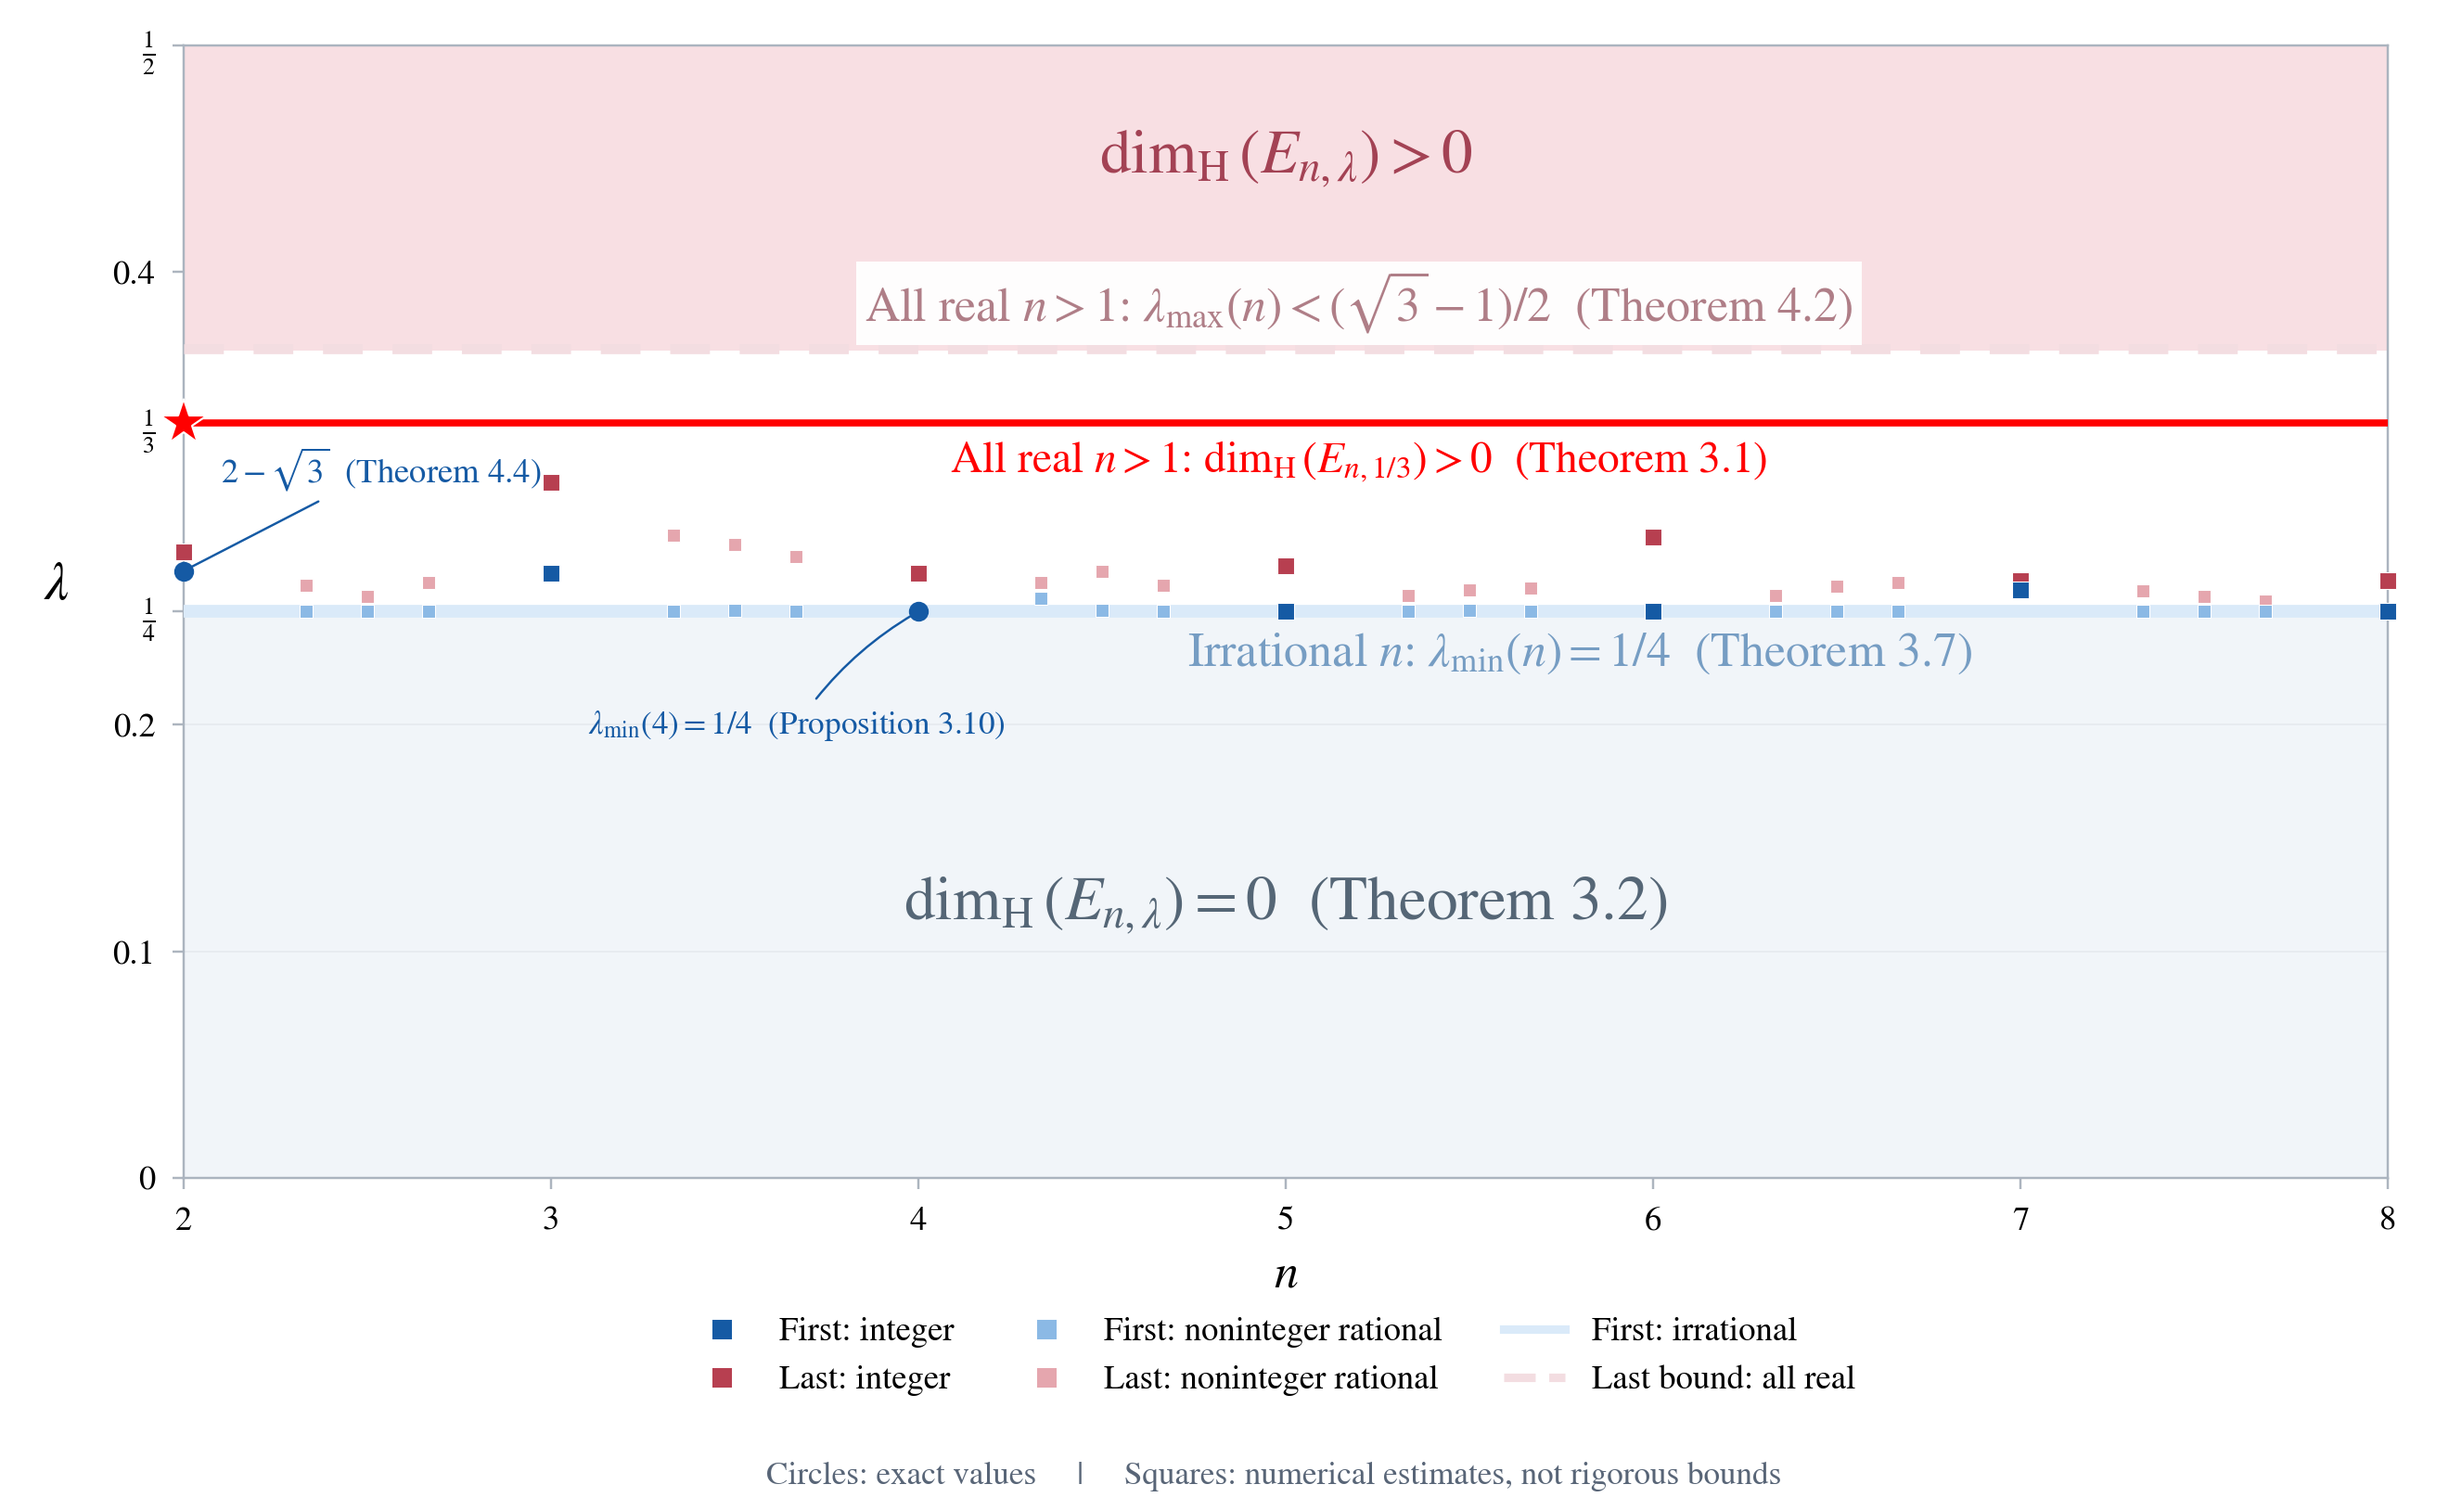
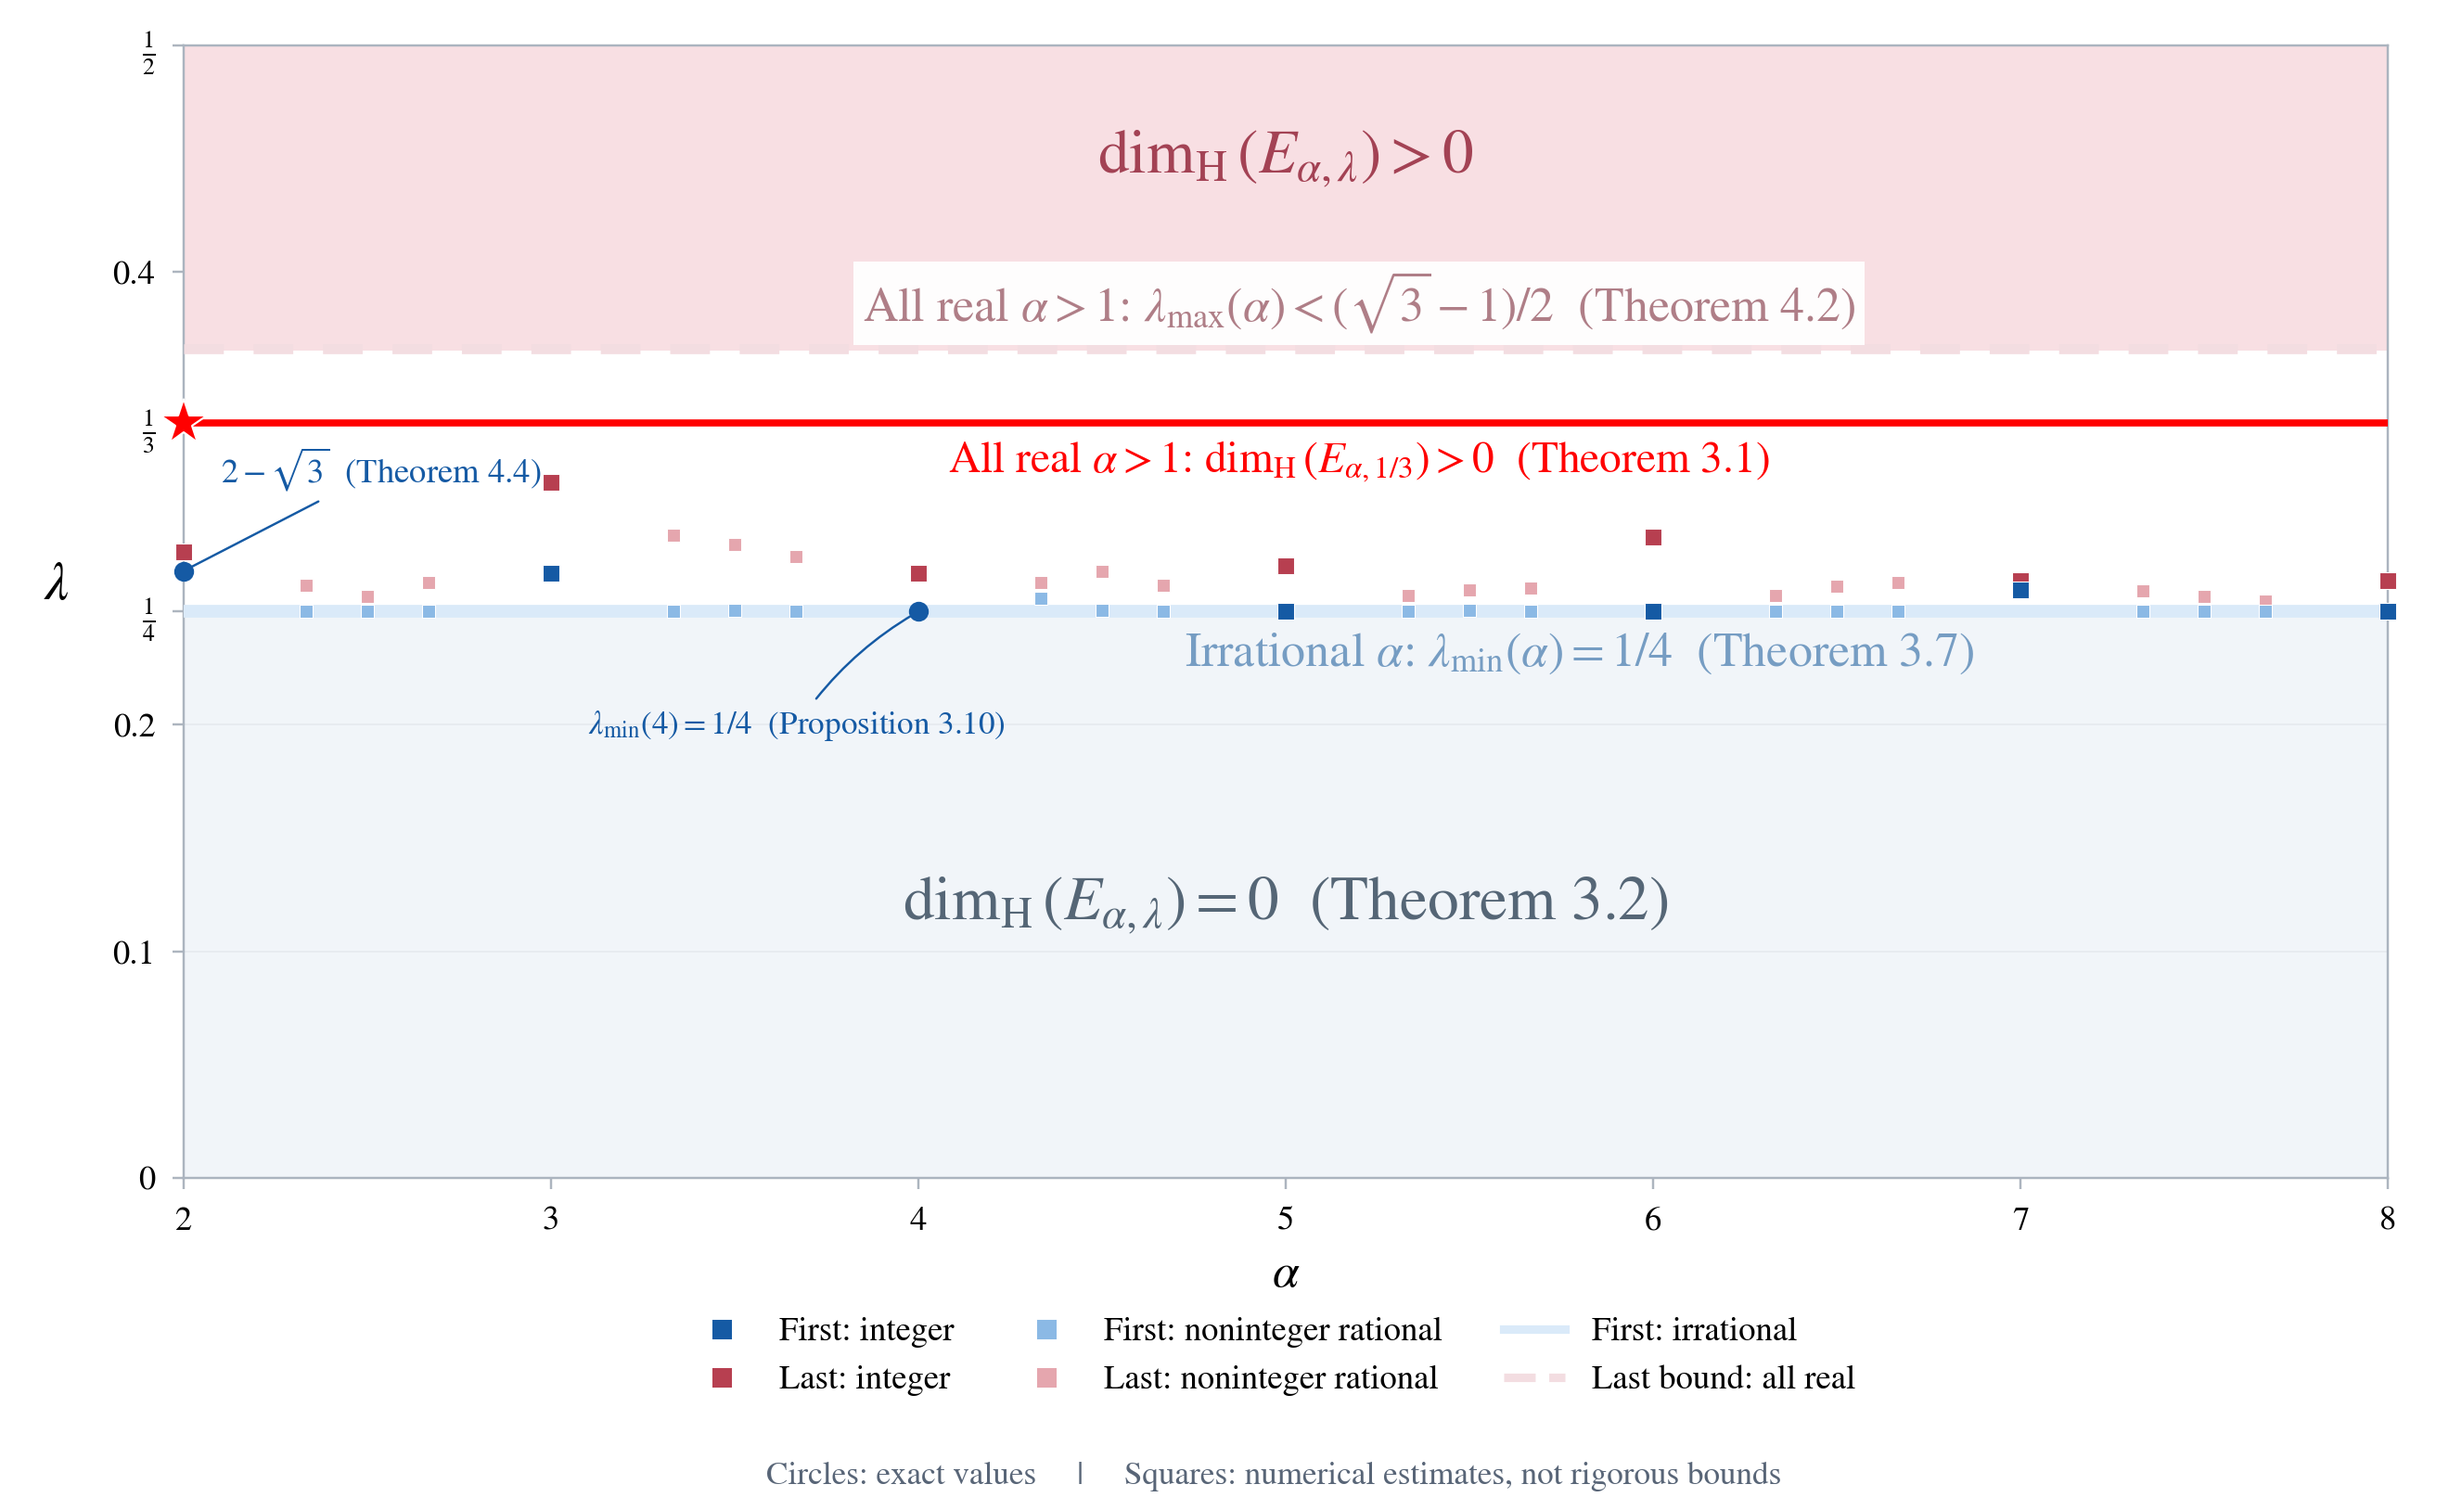
Use alpha in paper figure labels and document exponent notation

diff --git a/figures/generate_phase_diagram_zh.py b/figures/generate_phase_diagram_zh.py
@@ -59,16 +59,16 @@ for frac in fractions:
                 zorder=11, clip_on=False)
 
 
-ax.text(5, .12, r'$\dim_{\mathrm{H}}(E_{n,\lambda})=0$  (定理 3.2)',
+ax.text(5, .12, r'$\dim_{\mathrm{H}}(E_{\alpha,\lambda})=0$  (定理 3.2)',
         ha='center', va='center', fontsize=22, color='#556676')
-ax.text(5, .45, r'$\dim_{\mathrm{H}}(E_{n,\lambda})>0$',
+ax.text(5, .45, r'$\dim_{\mathrm{H}}(E_{\alpha,\lambda})>0$',
         ha='center', va='center', fontsize=22, color='#A34254', zorder=12)
 ax.text(5.2, .378,
-        r'所有实数 $n>1$: $\lambda_{\max}(n)<(\sqrt{3}-1)/2$  (定理 4.2)',
+        r'所有实数 $\alpha>1$: $\lambda_{\max}(\alpha)<(\sqrt{3}-1)/2$  (定理 4.2)',
         ha='center', fontsize=17, color='#AF7E87',
         bbox=dict(facecolor='white', edgecolor='none', alpha=.94, pad=3), zorder=10)
 ax.text(5.8, .226,
-        r'无理指数 $n$: $\lambda_{\min}(n)=1/4$  (定理 3.7)',
+        r'无理指数 $\alpha$: $\lambda_{\min}(\alpha)=1/4$  (定理 3.7)',
         ha='center', color='#769DC3', fontsize=17, zorder=10)
 ax.annotate(r'$2-\sqrt{3}$  (定理 4.4)',
             xy=(2,2-math.sqrt(3)), xytext=(2.10,.307),
@@ -79,7 +79,7 @@ ax.annotate(r'$\lambda_{\min}(4)=1/4$  (命题 3.10)',
             color=blue[0], fontsize=11.5,
             arrowprops=dict(arrowstyle='-',color=blue[0],lw=.8,
                             connectionstyle='arc3,rad=-.12'), zorder=10)
-ax.text(5.2, .326, r'所有实数 $n>1$: $\dim_{\mathrm{H}}(E_{n,1/3})>0$  (定理 3.1)',
+ax.text(5.2, .326, r'所有实数 $\alpha>1$: $\dim_{\mathrm{H}}(E_{\alpha,1/3})>0$  (定理 3.1)',
         ha='center', va='top', fontsize=15.5, color='#FF0000',
         bbox=dict(facecolor='white',edgecolor='none',alpha=.94,pad=2), zorder=12)
 ax.plot(2, 1/3, marker='*', linestyle='none', markersize=17,
@@ -88,7 +88,7 @@ ax.plot(2, 1/3, marker='*', linestyle='none', markersize=17,
 ax.set_xlim(2,8)
 ax.set_ylim(0,.5)
 ax.set_xticks(range(2,9))
-ax.set_xlabel(r'$n$', fontsize=17, labelpad=6)
+ax.set_xlabel(r'$\alpha$', fontsize=17, labelpad=6)
 ax.set_ylabel(r'$\lambda$', fontsize=19, rotation=0, labelpad=20)
 ax.set_yticks([0,.1,.2,.25,1/3,.4,.5])
 ax.set_yticklabels(['0','0.1','0.2',r'$\frac{1}{4}$',r'$\frac{1}{3}$','0.4',r'$\frac{1}{2}$'])

diff --git a/figures/generate_phase_diagram.py b/figures/generate_phase_diagram.py
@@ -59,16 +59,16 @@ for frac in fractions:
                 zorder=11, clip_on=False)
 
 
-ax.text(5, .12, r'$\dim_{\mathrm{H}}(E_{n,\lambda})=0$  (Theorem 3.2)',
+ax.text(5, .12, r'$\dim_{\mathrm{H}}(E_{\alpha,\lambda})=0$  (Theorem 3.2)',
         ha='center', va='center', fontsize=22, color='#556676')
-ax.text(5, .45, r'$\dim_{\mathrm{H}}(E_{n,\lambda})>0$',
+ax.text(5, .45, r'$\dim_{\mathrm{H}}(E_{\alpha,\lambda})>0$',
         ha='center', va='center', fontsize=22, color='#A34254', zorder=12)
 ax.text(5.2, .378,
-        r'All real $n>1$: $\lambda_{\max}(n)<(\sqrt{3}-1)/2$  (Theorem 4.2)',
+        r'All real $\alpha>1$: $\lambda_{\max}(\alpha)<(\sqrt{3}-1)/2$  (Theorem 4.2)',
         ha='center', fontsize=17, color='#AF7E87',
         bbox=dict(facecolor='white', edgecolor='none', alpha=.94, pad=3), zorder=10)
 ax.text(5.8, .226,
-        r'Irrational $n$: $\lambda_{\min}(n)=1/4$  (Theorem 3.7)',
+        r'Irrational $\alpha$: $\lambda_{\min}(\alpha)=1/4$  (Theorem 3.7)',
         ha='center', color='#769DC3', fontsize=17, zorder=10)
 ax.annotate(r'$2-\sqrt{3}$  (Theorem 4.4)',
             xy=(2,2-math.sqrt(3)), xytext=(2.10,.307),
@@ -79,7 +79,7 @@ ax.annotate(r'$\lambda_{\min}(4)=1/4$  (Proposition 3.10)',
             color=blue[0], fontsize=11.5,
             arrowprops=dict(arrowstyle='-',color=blue[0],lw=.8,
                             connectionstyle='arc3,rad=-.12'), zorder=10)
-ax.text(5.2, .326, r'All real $n>1$: $\dim_{\mathrm{H}}(E_{n,1/3})>0$  (Theorem 3.1)',
+ax.text(5.2, .326, r'All real $\alpha>1$: $\dim_{\mathrm{H}}(E_{\alpha,1/3})>0$  (Theorem 3.1)',
         ha='center', va='top', fontsize=15.5, color='#FF0000',
         bbox=dict(facecolor='white',edgecolor='none',alpha=.94,pad=2), zorder=12)
 ax.plot(2, 1/3, marker='*', linestyle='none', markersize=17,
@@ -88,7 +88,7 @@ ax.plot(2, 1/3, marker='*', linestyle='none', markersize=17,
 ax.set_xlim(2,8)
 ax.set_ylim(0,.5)
 ax.set_xticks(range(2,9))
-ax.set_xlabel(r'$n$', fontsize=17, labelpad=6)
+ax.set_xlabel(r'$\alpha$', fontsize=17, labelpad=6)
 ax.set_ylabel(r'$\lambda$', fontsize=19, rotation=0, labelpad=20)
 ax.set_yticks([0,.1,.2,.25,1/3,.4,.5])
 ax.set_yticklabels(['0','0.1','0.2',r'$\frac{1}{4}$',r'$\frac{1}{3}$','0.4',r'$\frac{1}{2}$'])

diff --git a/README.md b/README.md
@@ -1,9 +1,14 @@
 # Computational companion: solutions of the Fermat–Cantor equation
 
 Experiments, algorithms, exact certificates and reproduction instructions for
-**Solutions of xⁿ + yⁿ = 1 in λ-Cantor sets**. The complete current manuscript uses **v1.2.0**, including
+**Solutions of $x^\alpha + y^\alpha = 1$ in $\lambda$-Cantor sets**. The complete current manuscript uses **v1.2.0**, including
 [the uniform last-transition theorem](docs/universal-last-bound.md).
 The [paper-to-files index](docs/paper-index.md) identifies the material for each result.
+
+The manuscript now denotes the real exponent by $\alpha$. In the verification
+programs, data fields and archived records, `n` denotes this same exponent.
+The current plotting scripts use $\alpha$; the fixed v1.2.0 figures retain the
+earlier label $n$. The numerical data and certificates are unchanged.
 
 The current release uses exact Python arithmetic. **It contains no Lean proofs
 and makes no claim of Lean kernel verification.** The repository name also
